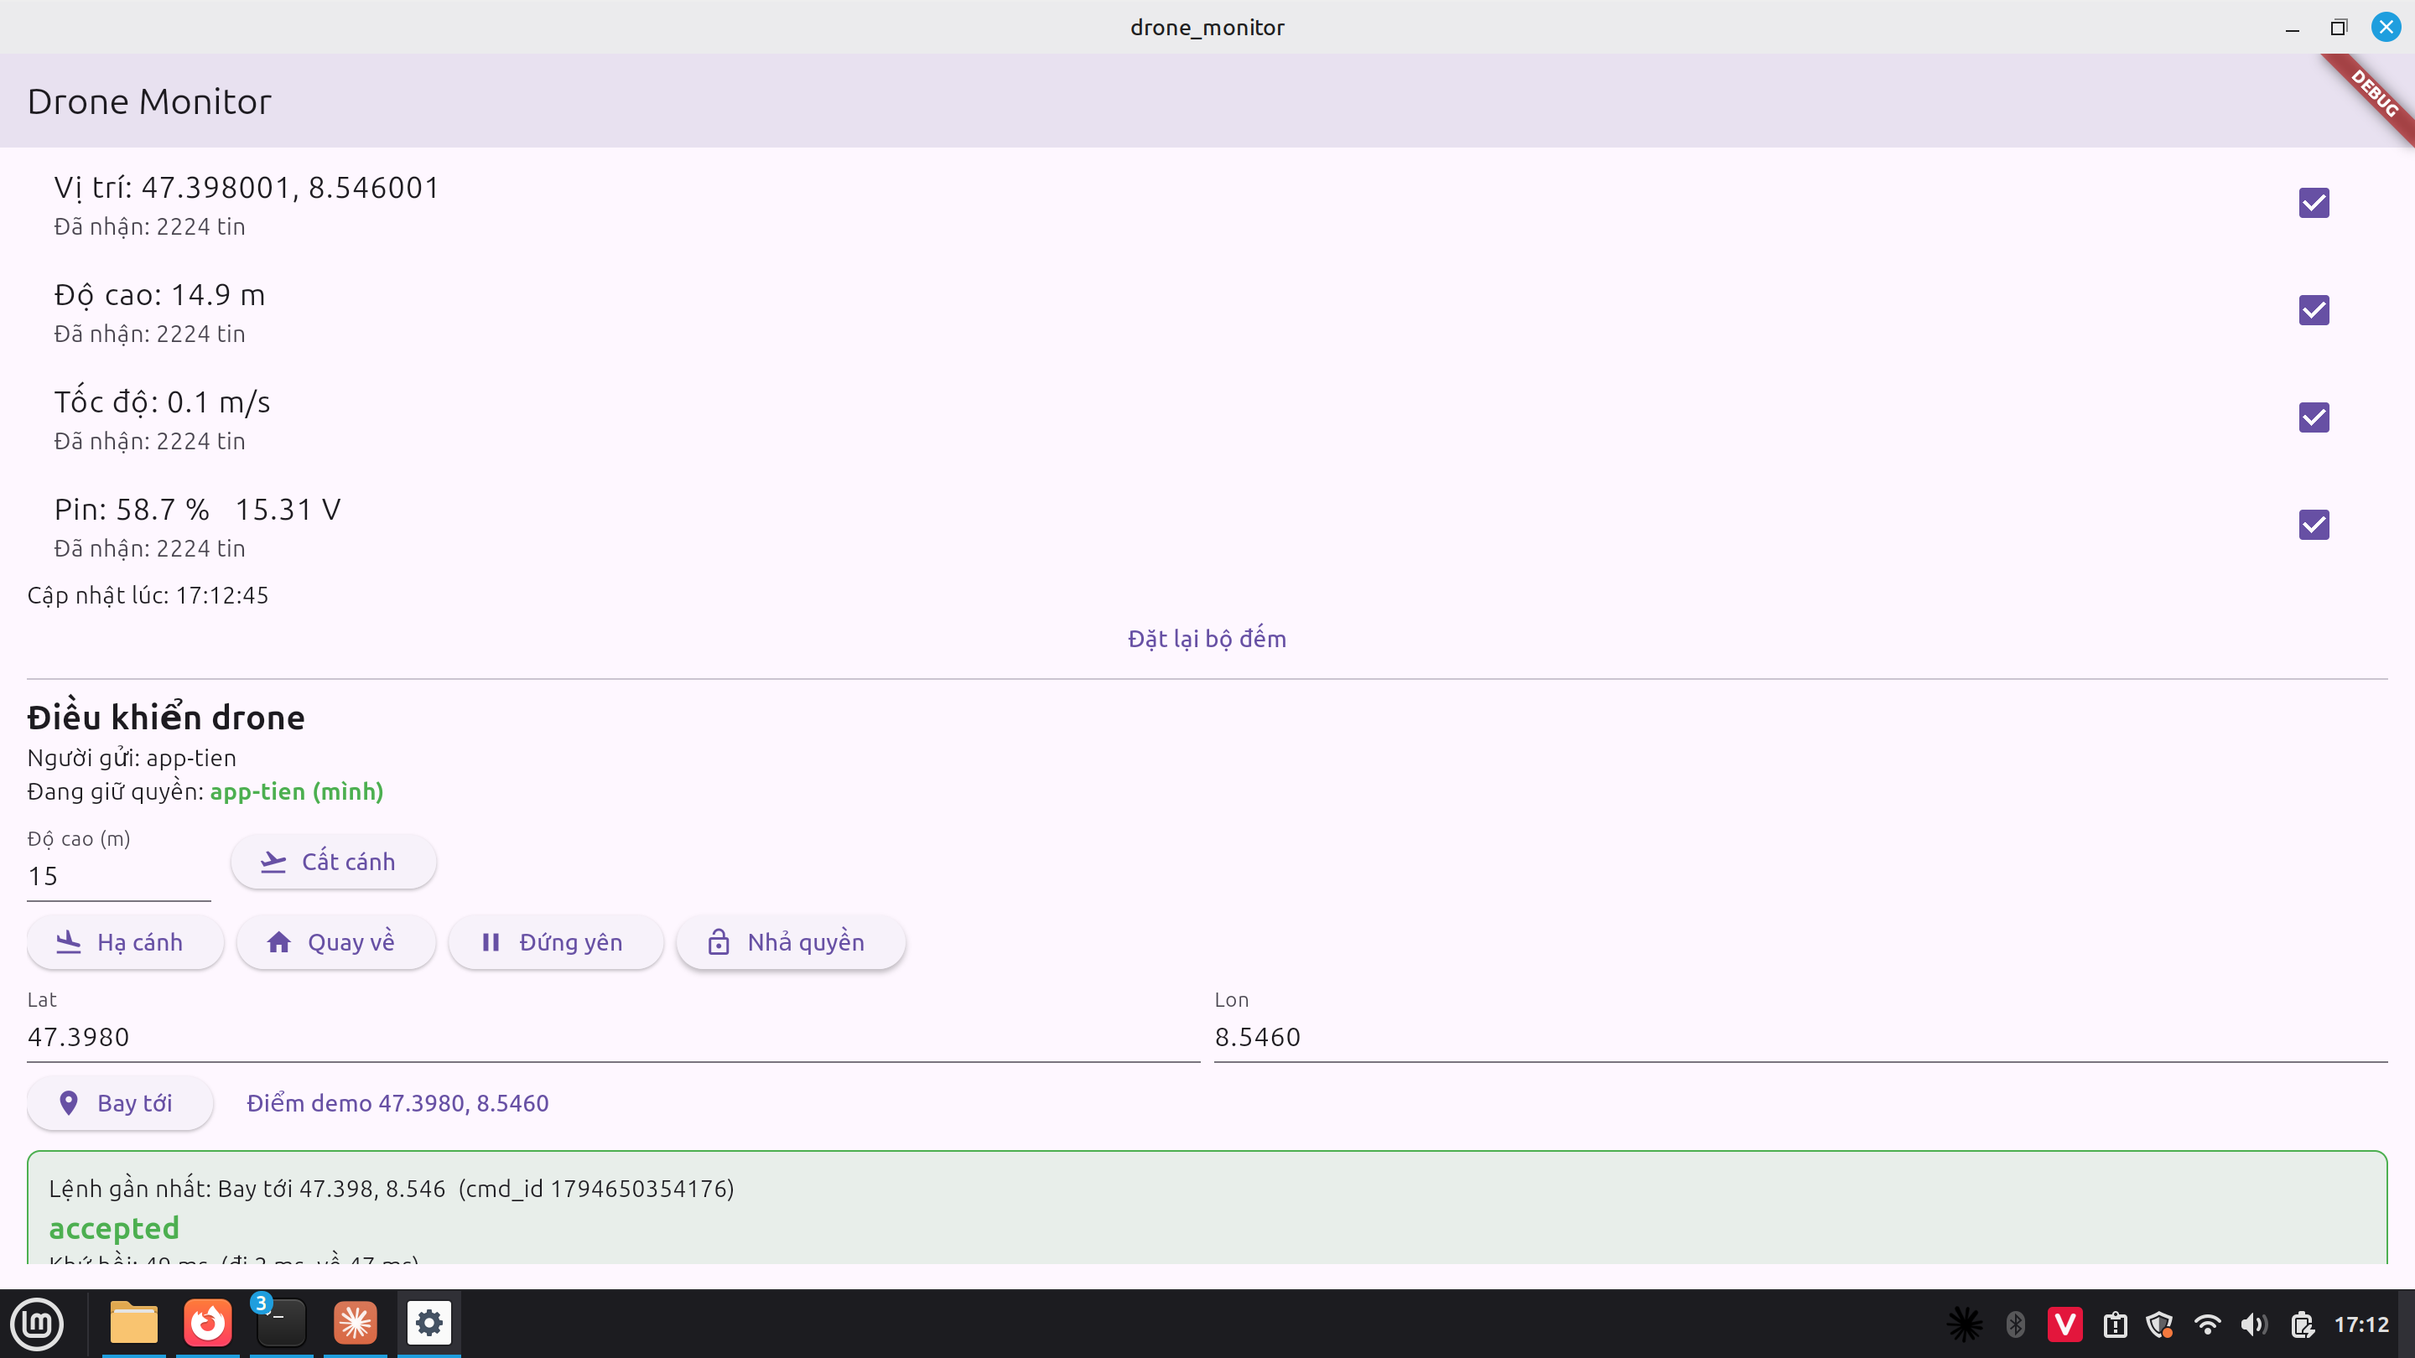
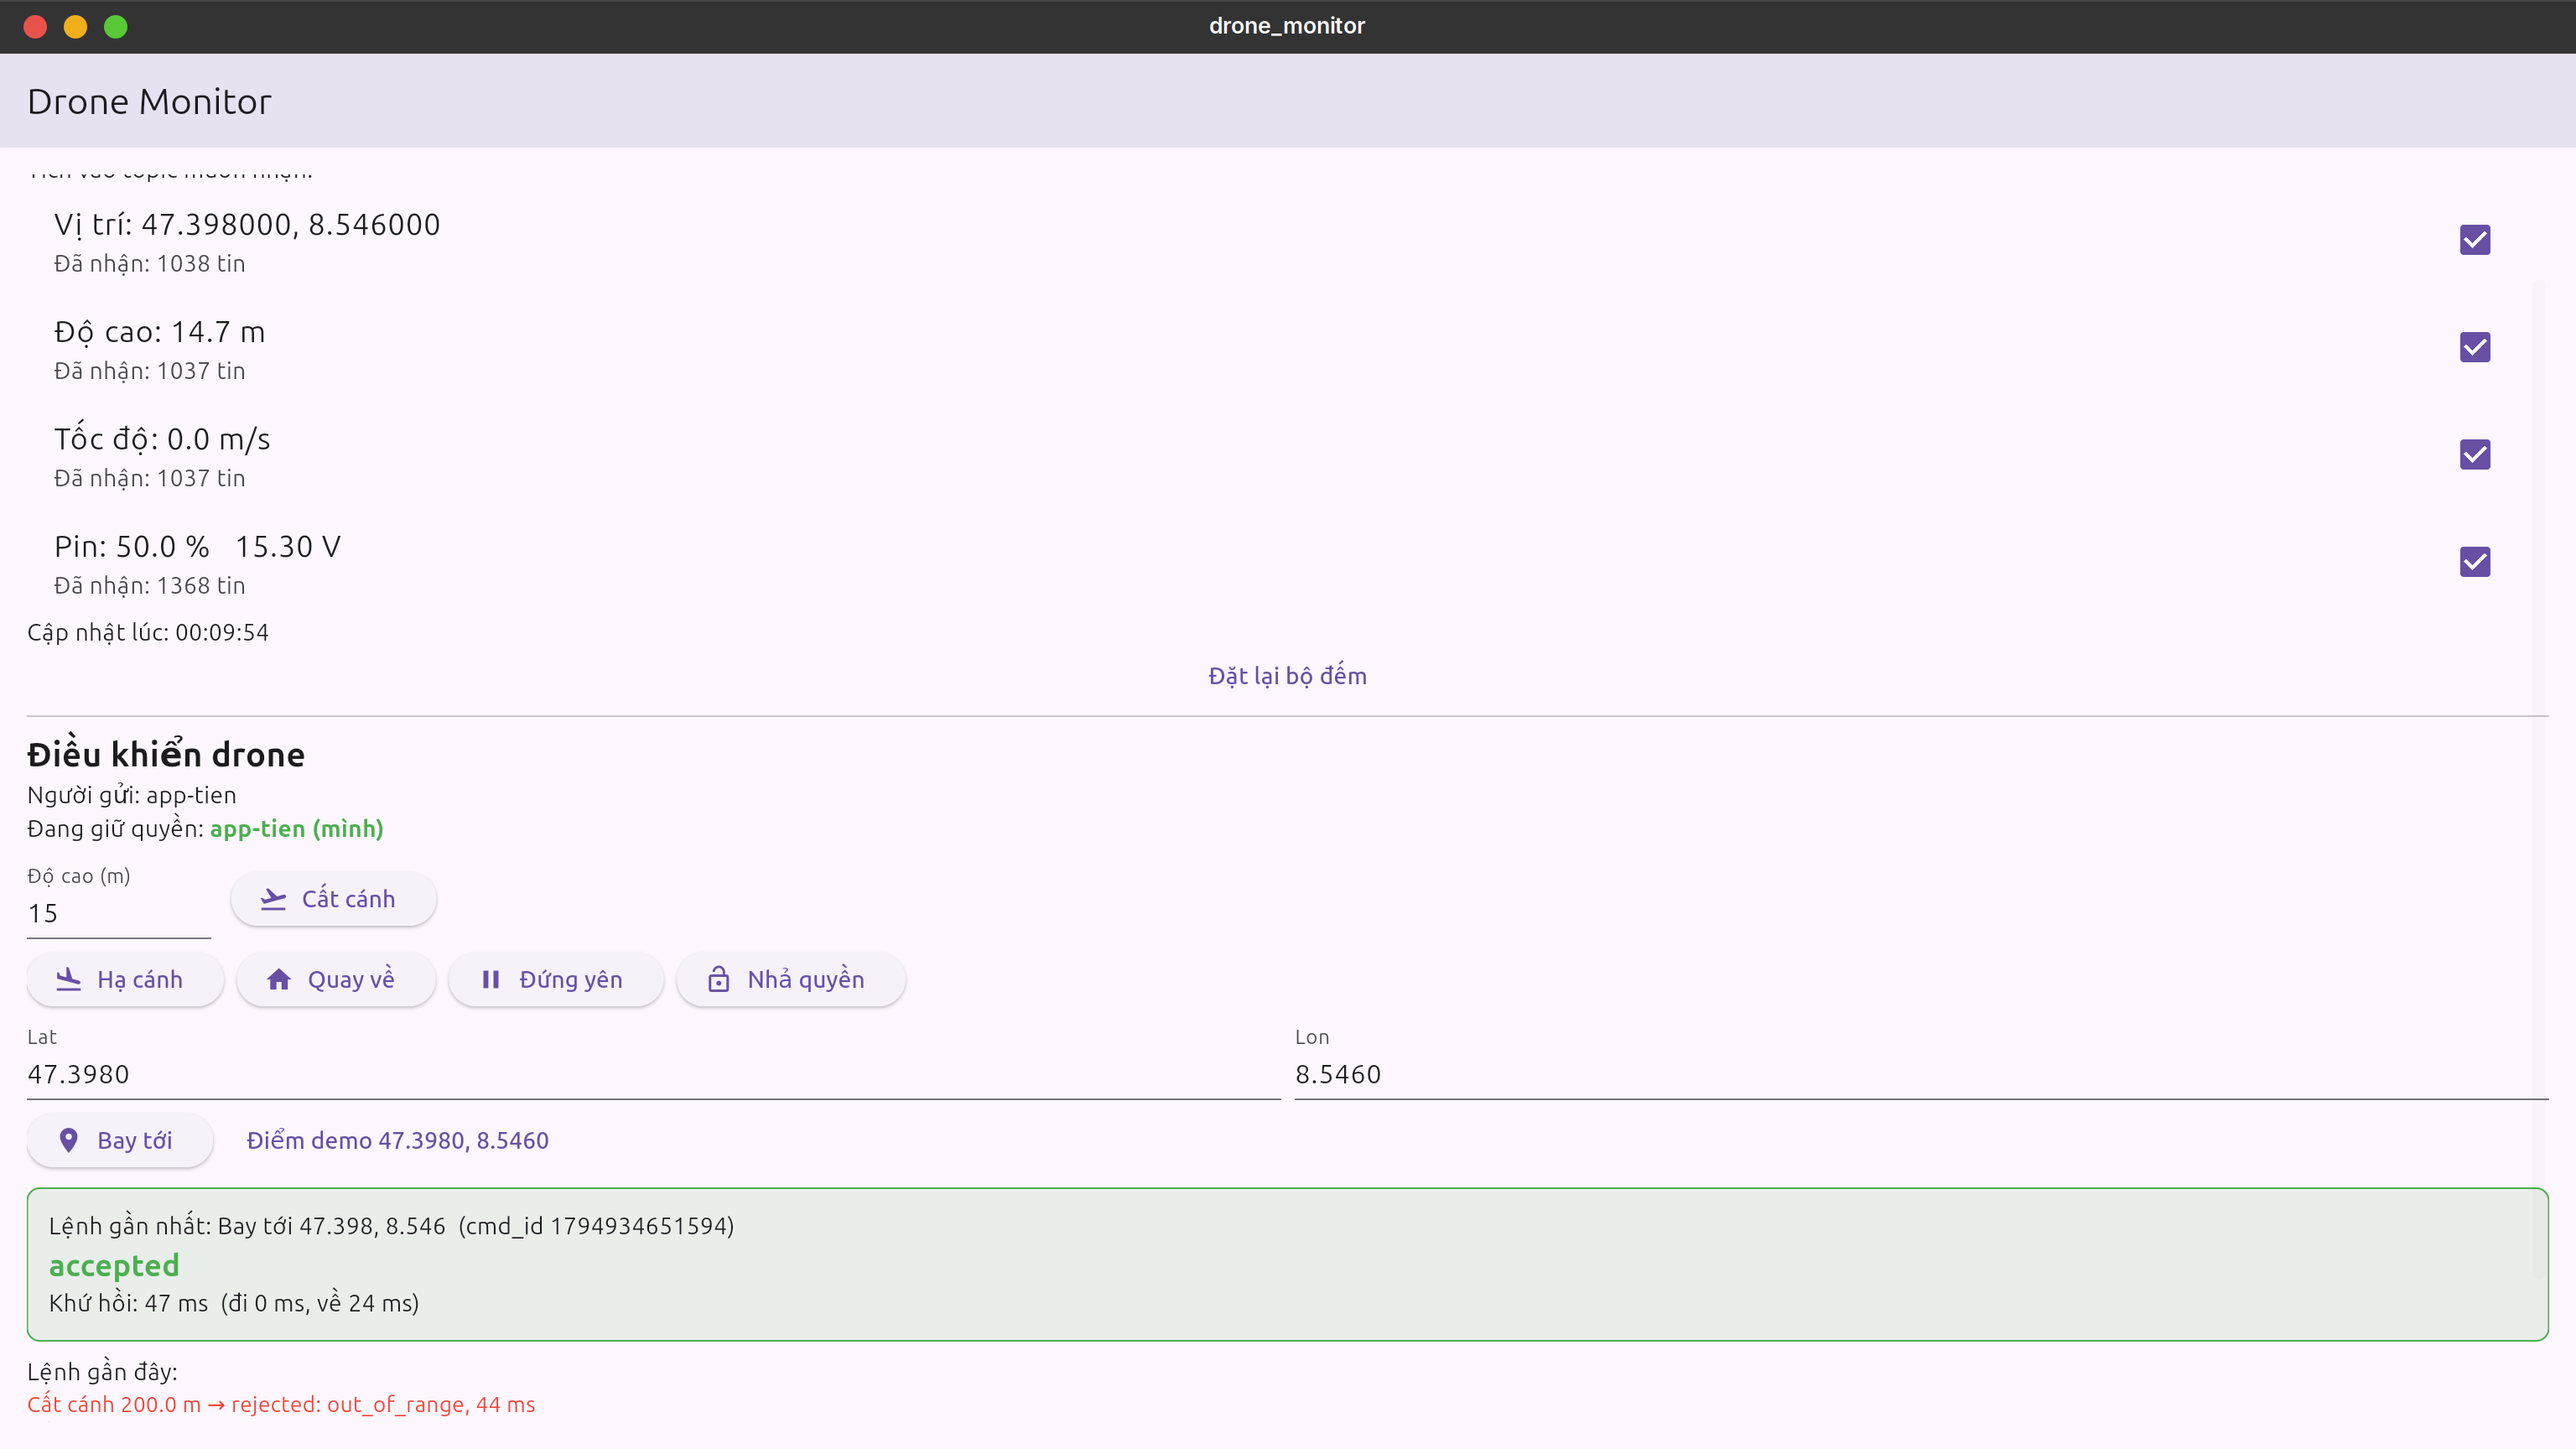
Chụp lại ảnh A, B, D và ảnh App kênh lệnh với PX4 SITL
13 ảnh chụp ngày 18/11/2026 với PX4 SITL v1.17.0 (drone x500 hover 10 m),
thay cho ảnh cũ chụp với nguồn dữ liệu giả. Ảnh cất cánh lần hai
(invalid_state) đổi thành cất cánh 200 m (3_out_of_range.png). Cập nhật số
liệu trong bao_cao_thi_nghiem_ABD.md, bao_cao_kenh_lenh.md và bỏ dòng hạn
chế về ảnh cũ trong README.

diff --git a/docs/bao_cao_thi_nghiem_ABD.md b/docs/bao_cao_thi_nghiem_ABD.md
@@ -1,14 +1,15 @@
 # Thí nghiệm A, B, D (phần của Tiên)
 
-Chạy trên một máy Linux: Broker Mosquitto (Docker, 172.28.0.10), Gateway (4 topic × 5 tin/s
-= 20 tin/s), App Flutter (Linux desktop) và Logger C++. Ảnh chụp trong `data/A`, `data/B`, `data/D`.
+Chạy trên một máy Linux: PX4 SITL v1.17.0 + Gazebo (drone x500 hover ở 10 m), Broker Mosquitto (Docker,
+172.28.0.10), Gateway đọc PX4 qua MAVSDK (4 topic × 5 tin/s = 20 tin/s), App Flutter (Linux desktop) và Logger C++.
+Ảnh chụp lại với PX4 ngày 18/11/2026, trong `data/A`, `data/B`, `data/D`.
 
 ## A – Tắt một client, client còn lại vẫn nhận
 
 | Lượt | Thao tác | Kết quả |
 |---|---|---|
-| A1 | Ctrl+C Logger (đã nhận 6150 tin) | App vẫn cập nhật: "Cập nhật lúc 20:30:36" đúng giờ hệ thống, cả 4 topic vẫn tăng |
-| A2 | App bấm "Ngắt kết nối" | Logger vẫn nhận đều `+20/s` (5100 → 5400 tin) |
+| A1 | Ctrl+C Logger (đã nhận 720 tin) | App vẫn cập nhật: "Cập nhật lúc 00:02:44" đúng giờ hệ thống, cả 4 topic vẫn tăng |
+| A2 | App bấm "Ngắt kết nối" | Logger vẫn nhận đều `+20/s` (600 → 1000 tin) |
 
 ![A1](../data/A/tat_logger_app_van_nhan.png)
 ![A2](../data/A/tat_app_logger_van_nhan.png)
@@ -21,26 +22,25 @@ Một client rời đi không ảnh hưởng client khác, và Gateway (publishe
 
 | Thời điểm | Vị trí | Độ cao | Tốc độ | Pin |
 |---|---|---|---|---|
-| Sau khi đặt lại bộ đếm và bỏ tích 3 topic (20:38:43) | 5 | 7 | 11 | 62 |
-| Sau khoảng 55 s, vừa tích lại cả 4 (20:39:38) | 29 | 34 | 43 | 339 |
+| Sau khi đặt lại bộ đếm và bỏ tích 3 topic (00:04:26) | 2 | 4 | 6 | 67 |
+| Sau 55 s, vừa tích lại cả 4 (00:05:21) | 10 | 10 | 10 | 341 |
 
 ![B1](../data/B/chi_nhan_pin.png)
 ![B2](../data/B/tich_lai.png)
 
 **Nhận xét:**
-- Trong khoảng 55 giây chỉ tích Pin, số tin Pin tăng thêm khoảng 277 (≈ 5 tin/s), còn ba topic kia đứng yên.
-  Ba topic này chỉ tăng trở lại (khoảng 24–32 tin trong vài giây) sau khi được tích lại.
+- Trong khoảng 55 giây chỉ tích Pin, số tin Pin tăng thêm 274 (≈ 5 tin/s), còn ba topic kia đứng yên.
+  Ba topic này chỉ tăng trở lại (4–8 tin trong khoảng 2 giây) sau khi được tích lại.
 - App đếm mọi tin Broker gửi tới, không tự lọc. Vì vậy số đếm đứng yên nghĩa là **chính Broker đã ngừng
   gửi** sau gói UNSUBSCRIBE. Việc lọc nằm ở Broker, nên client không tốn băng thông cho dữ liệu không cần.
-- Mức pin 0.0 % ở ảnh B là pin giả lập đã cạn do Gateway chạy lâu, không phải lỗi. Sau khi Gateway chạy lại,
-  pin về 94.9 % (ảnh D2).
+- Mức pin trong ảnh (50 %) là pin mô phỏng của PX4 SITL.
 
 ## D – Tắt Gateway: Ctrl+C và kill -9
 
 | Lượt | Cách tắt | Giờ tắt | App hiện "offline" lúc | Thời gian |
 |---|---|---|---|---|
-| D1 | Ctrl+C | 20:42:48 (tin cuối cùng) | 20:42:48 | dưới 1 s |
-| D2 | `kill -9` | 20:45:59 (lệnh `date`) | 20:45:59 | dưới 1 s |
+| D1 | Ctrl+C | 00:06:15 (tin cuối cùng) | 00:06:16 | khoảng 1 s |
+| D2 | `kill -9` | 00:06:55 (lệnh `date`) | 00:06:55 | dưới 1 s |
 
 ![D1](../data/D/tat_gateway_bang_ctrlC.png)
 ![D2](../data/D/kill_9.png)
